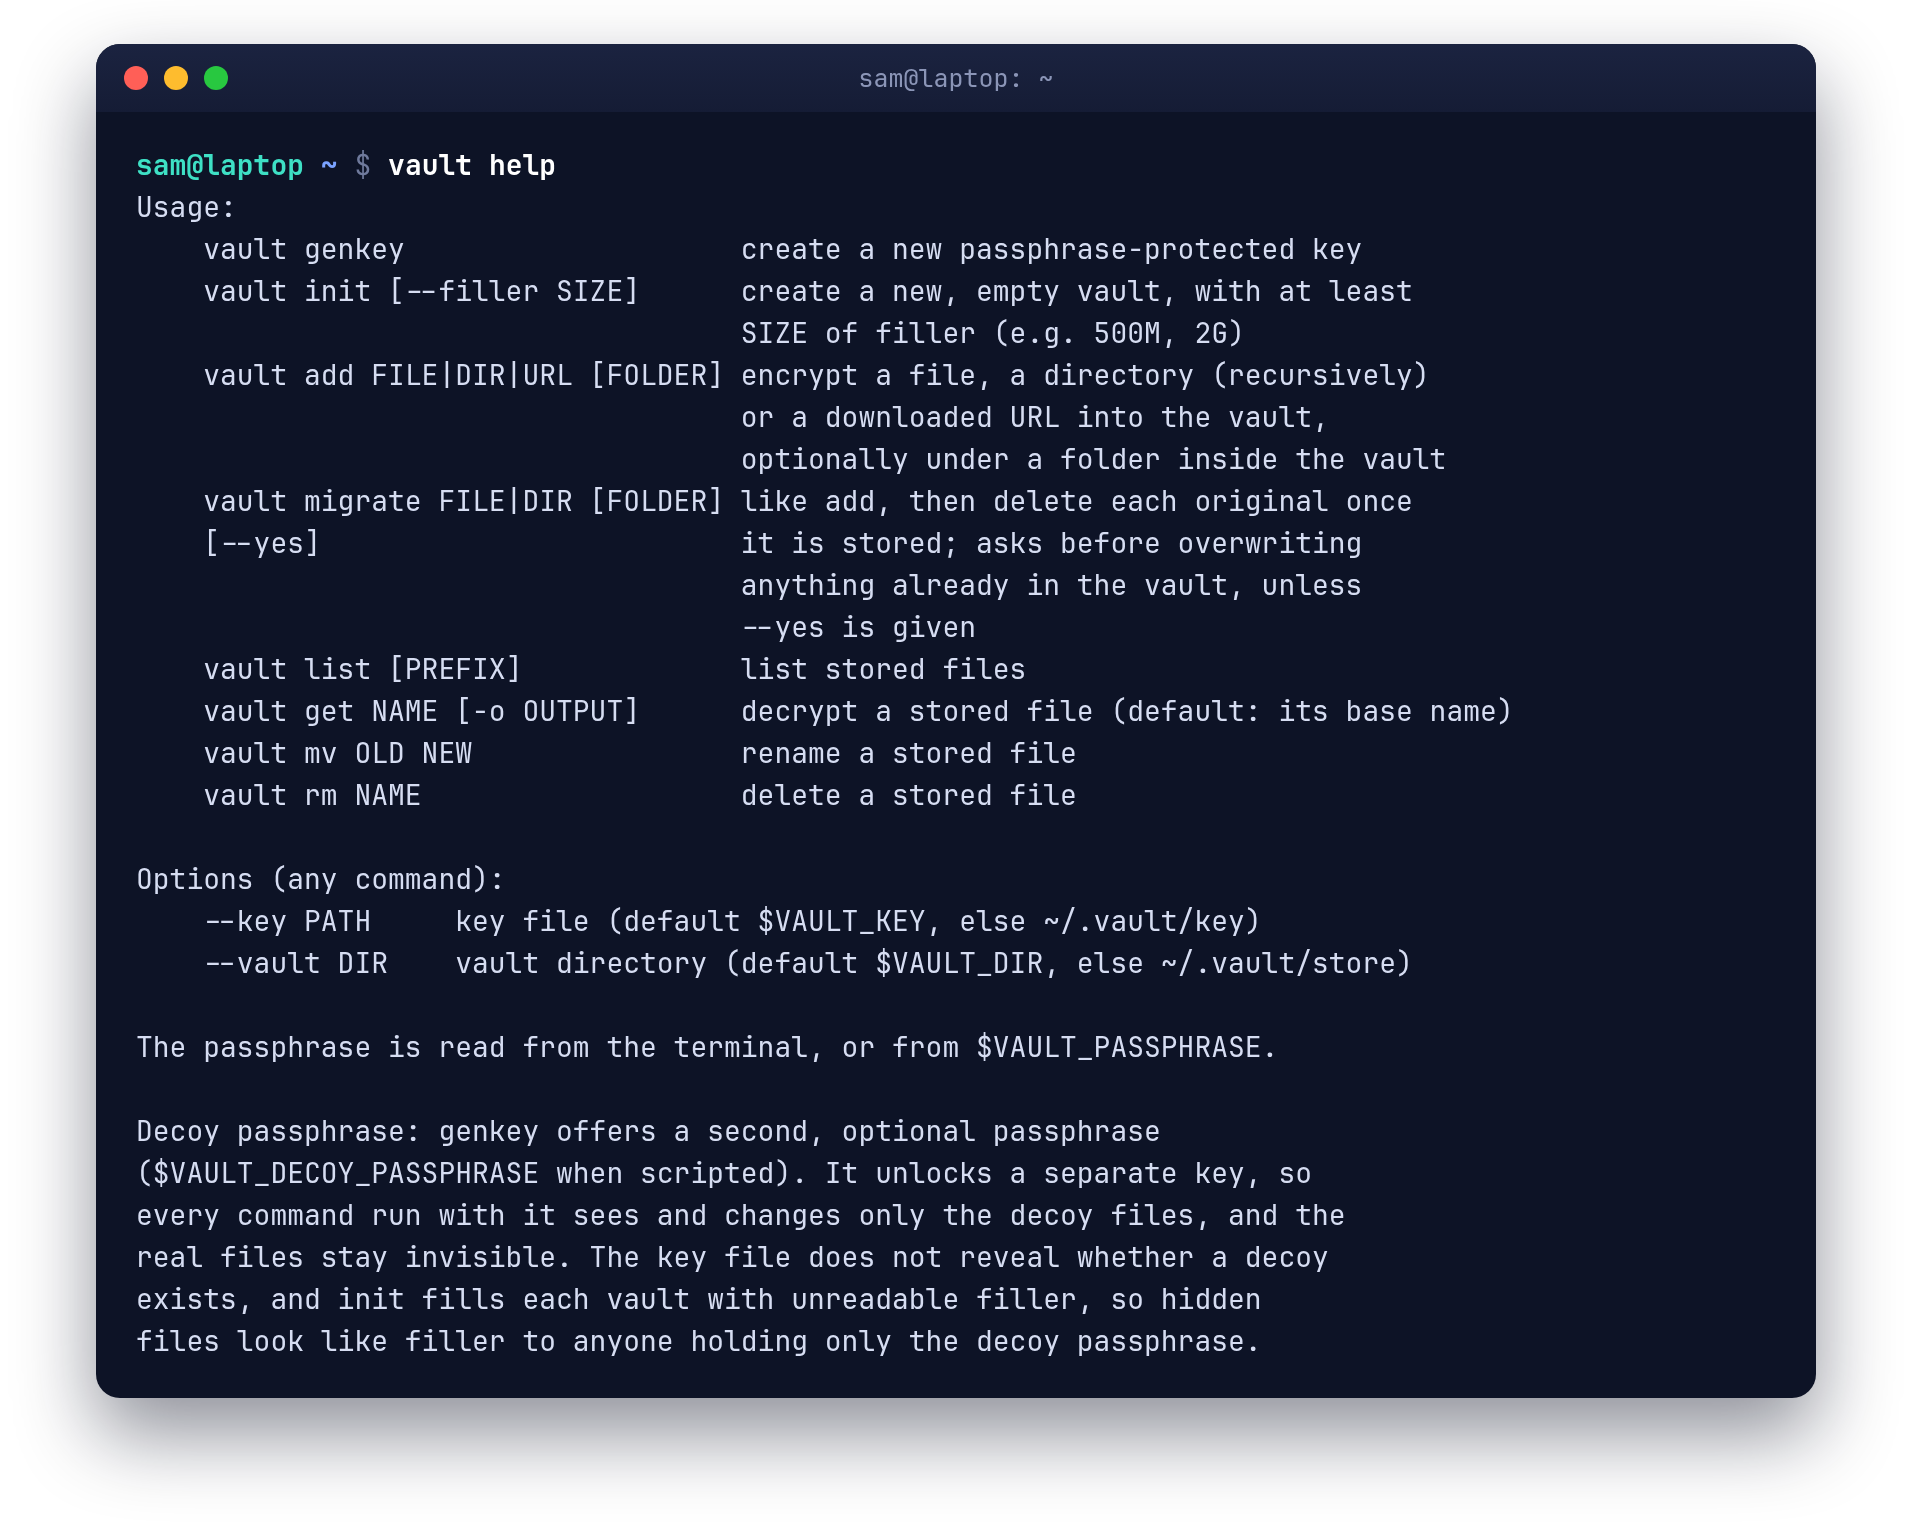
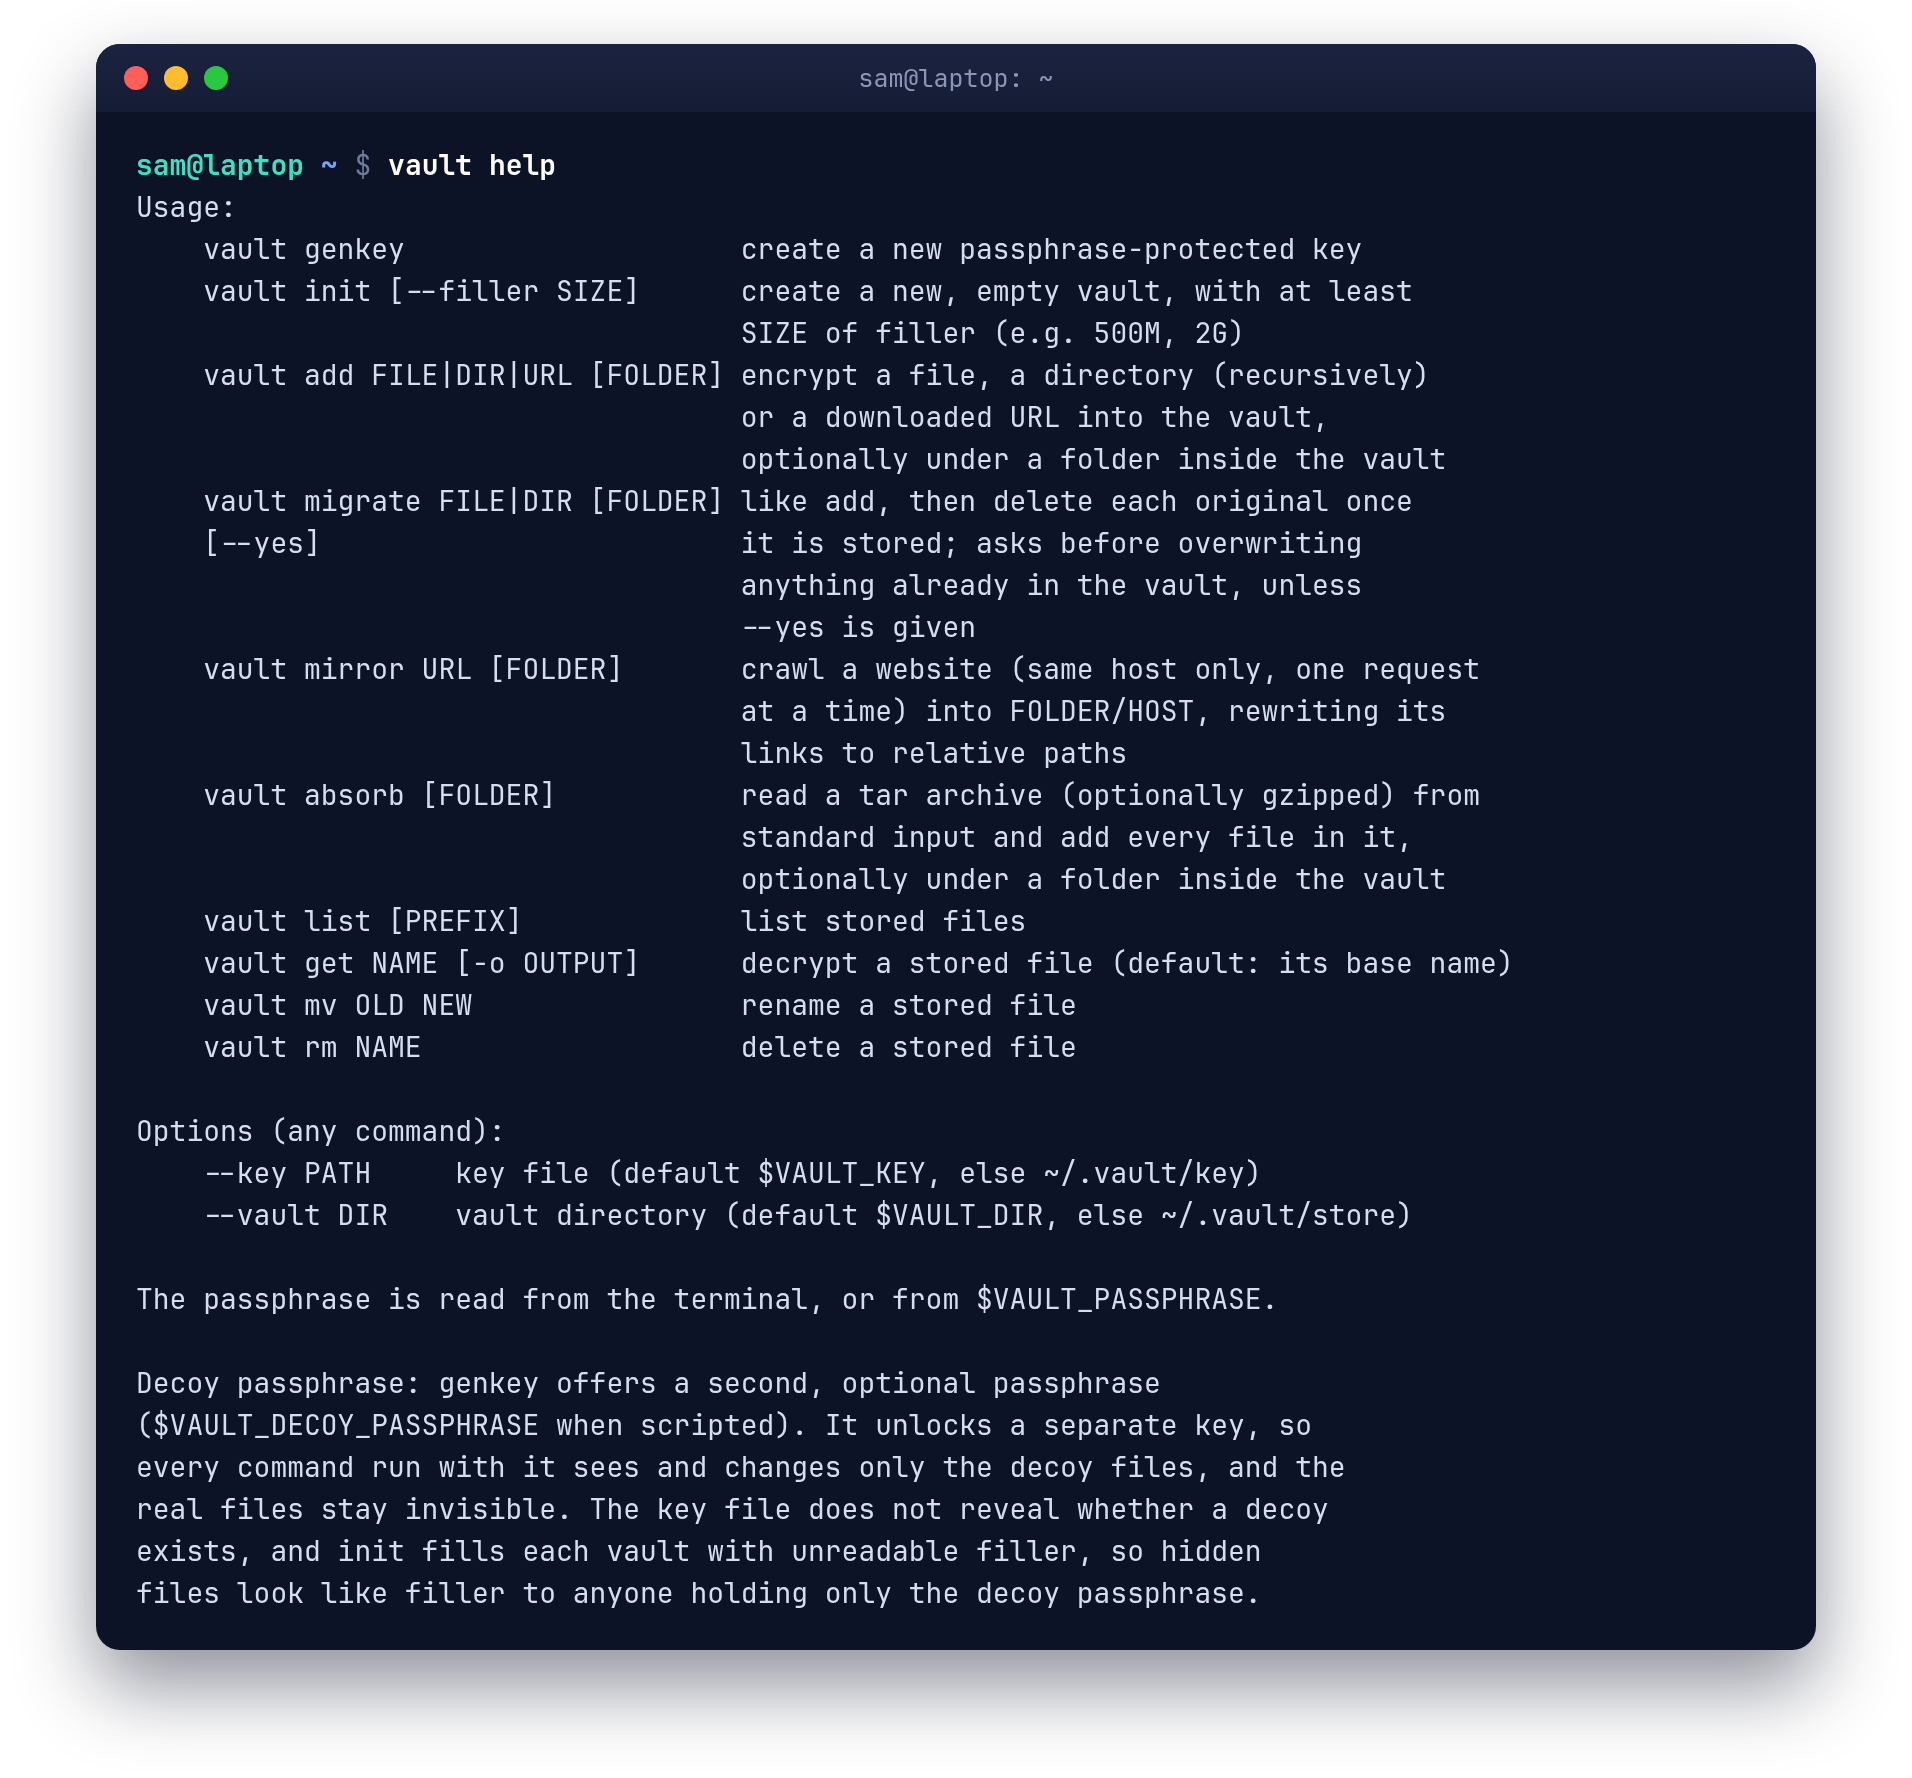
Absorb functionality

diff --git a/store.go b/store.go
@@ -14,6 +14,7 @@ import (
 	"errors"
 	"fmt"
 	"io"
+	"io/fs"
 	"math"
 	mrand "math/rand/v2"
 	"os"
@@ -382,30 +383,43 @@ func (s *store) add(cat map[string][]*record, src, name string) (bool, error) {
 	if !info.Mode().IsRegular() || info.Size() > fileLimit {
 		return false, fmt.Errorf("%s: not a regular file of at most 1 TiB", src)
 	}
+	replaced, err := s.addReader(cat, f, info.Size(), info.Mode().Perm(), info.ModTime(), name)
+	if errors.Is(err, io.ErrUnexpectedEOF) || errors.Is(err, io.EOF) {
+		err = fmt.Errorf("%s changed while being added", src)
+	}
+	return replaced, err
+}
+
+// addReader stores size bytes from r as name, like add. Reading fewer than
+// size bytes stores nothing and fails with io.ErrUnexpectedEOF or io.EOF.
+func (s *store) addReader(cat map[string][]*record, r io.Reader, size int64, mode fs.FileMode, mtime time.Time, name string) (bool, error) {
+	if !validName(name) {
+		return false, fmt.Errorf("invalid vault path %q", name)
+	}
+	if size < 0 || size > fileLimit {
+		return false, fmt.Errorf("%s: larger than 1 TiB", name)
+	}
 	seed, err := randomHex(objectSeedSize)
 	if err != nil {
 		return false, err
 	}
-	if err := s.writeObjects(f, seed, info.Size()); err != nil {
-		s.dropObjects(seed, info.Size())
-		if errors.Is(err, io.ErrUnexpectedEOF) || errors.Is(err, io.EOF) {
-			err = fmt.Errorf("%s changed while being added", src)
-		}
+	if err := s.writeObjects(r, seed, size); err != nil {
+		s.dropObjects(seed, size)
 		return false, err
 	}
-	r := &record{
-		Name: name, Seed: seed, Size: info.Size(), Mode: uint32(info.Mode().Perm()),
-		Modified: info.ModTime().UTC(), Added: time.Now().UTC(),
+	rec := &record{
+		Name: name, Seed: seed, Size: size, Mode: uint32(mode.Perm()),
+		Modified: mtime.UTC(), Added: time.Now().UTC(),
 	}
-	if err := s.writeRecord(r); err != nil {
-		s.dropObjects(seed, info.Size())
+	if err := s.writeRecord(rec); err != nil {
+		s.dropObjects(seed, size)
 		return false, err
 	}
 	replaced := len(cat[name]) > 0
 	if err := s.remove(cat, name, true); err != nil {
 		return replaced, err
 	}
-	cat[name] = []*record{r}
+	cat[name] = []*record{rec}
 	return replaced, nil
 }
 

diff --git a/absorb.go b/absorb.go
@@ -1,0 +1,75 @@
+// Copyright 2026 The vault Authors.
+// SPDX-License-Identifier: GPL-3.0-or-later
+
+package main
+
+import (
+	"archive/tar"
+	"bufio"
+	"bytes"
+	"compress/gzip"
+	"errors"
+	"fmt"
+	"io"
+	"os"
+	"path"
+	"strings"
+)
+
+// absorb reads a tar archive, gzipped or not, from r and adds every regular
+// file in it beneath dest, streaming each straight into the vault so no
+// plaintext touches the disk. Other entries, and names that would escape
+// dest, are reported and skipped.
+func absorb(s *store, cat map[string][]*record, r io.Reader, dest string) error {
+	br := bufio.NewReader(r)
+	if magic, _ := br.Peek(2); bytes.Equal(magic, []byte{0x1f, 0x8b}) {
+		zr, err := gzip.NewReader(br)
+		if err != nil {
+			return err
+		}
+		defer zr.Close()
+		r = zr
+	} else {
+		r = br
+	}
+	tr := tar.NewReader(r)
+	n := 0
+	for {
+		hdr, err := tr.Next()
+		if err == io.EOF {
+			break
+		}
+		if err != nil {
+			return fmt.Errorf("reading archive: %w", err)
+		}
+		if hdr.Typeflag != tar.TypeReg {
+			if hdr.Typeflag != tar.TypeDir {
+				fmt.Fprintf(os.Stderr, "skipping %s: not a regular file\n", hdr.Name)
+			}
+			continue
+		}
+		name := strings.TrimPrefix(path.Clean("/"+hdr.Name), "/")
+		if strings.Contains(hdr.Name, "\\") || name == "" || name != path.Clean(strings.TrimPrefix(strings.TrimPrefix(hdr.Name, "./"), "/")) {
+			fmt.Fprintf(os.Stderr, "skipping %s: unsafe name\n", hdr.Name)
+			continue
+		}
+		name = path.Join(dest, name)
+		replaced, err := s.addReader(cat, tr, hdr.Size, hdr.FileInfo().Mode(), hdr.ModTime, name)
+		if errors.Is(err, io.ErrUnexpectedEOF) || errors.Is(err, io.EOF) {
+			err = fmt.Errorf("%s: archive ends early", hdr.Name)
+		}
+		if err != nil {
+			return err
+		}
+		verb := "added"
+		if replaced {
+			verb = "replaced"
+		}
+		fmt.Fprintf(os.Stderr, "%s %s\n", verb, name)
+		n++
+	}
+	if n == 0 {
+		return errors.New("no files in archive")
+	}
+	return nil
+}

diff --git a/docs/guide/shots.py b/docs/guide/shots.py
@@ -315,6 +315,35 @@ def main():
     t.cmd("ls Scans")
     shoot("migrate", t)
 
+    # absorb: a tar archive piped in, here pulled from a gzipped tarball
+    box.write("Projects/website/index.html", "<h1>hello</h1>\n")
+    box.write("Projects/website/css/site.css", "body{}\n")
+    box.write("Projects/website/img/logo.png", os.urandom(24_311))
+    t = Term(box)
+    t.cmd("tar -czf website.tar.gz -C Projects website")
+    t.cmd("vault absorb backups < website.tar.gz", P)
+    t.cmd("tar -c recipes | vault absorb old", P)
+    t.cmd("vault list backups", P)
+    shoot("absorb", t)
+
+    # mirror: a tiny local site, served on localhost
+    site = os.path.join(box.root, "site")
+    for rel, body in {"index.html": '<a href="/about.html">About</a> <link href="/style.css">',
+                      "about.html": '<a href="/">Home</a> <img src="/img/me.png">',
+                      "style.css": "body{background:url(/img/bg.png)}",
+                      "img/me.png": "png", "img/bg.png": "png"}.items():
+        os.makedirs(os.path.dirname(os.path.join(site, rel)), exist_ok=True)
+        with open(os.path.join(site, rel), "w") as f:
+            f.write(body)
+    srv = subprocess.Popen([sys.executable, "-m", "http.server", "8000", "--bind", "127.0.0.1"],
+                           cwd=site, stdout=subprocess.DEVNULL, stderr=subprocess.DEVNULL)
+    time.sleep(1)
+    t = Term(box)
+    t.cmd("vault mirror http://localhost:8000/ sites", P)
+    t.cmd("vault get sites/localhost:8000/about.html && cat about.html", P)
+    shoot("mirror", t)
+    srv.terminate()
+
     # errors
     t = Term(box)
     t.cmd("vault list", "hunter2", highlight=("incorrect",))

diff --git a/vault_test.go b/vault_test.go
@@ -4,8 +4,10 @@
 package main
 
 import (
+	"archive/tar"
 	"bufio"
 	"bytes"
+	"compress/gzip"
 	"crypto/rand"
 	"io"
 	"io/fs"
@@ -428,5 +430,52 @@ func TestMirror(t *testing.T) {
 			t.Errorf("%s = %q, want %q", name, b, want)
 		}
 		os.Remove(out)
+	}
+}
+
+func TestAbsorb(t *testing.T) {
+	dir := t.TempDir()
+	keyPath := filepath.Join(dir, "key")
+	if err := writeKeyFile(keyPath, "pass", ""); err != nil {
+		t.Fatal(err)
+	}
+	if err := initStore(filepath.Join(dir, "store"), 0); err != nil {
+		t.Fatal(err)
+	}
+	s := newTestStore(t, keyPath, "pass")
+	var buf bytes.Buffer
+	zw := gzip.NewWriter(&buf)
+	tw := tar.NewWriter(zw)
+	mtime := time.Date(2020, 1, 2, 3, 4, 5, 0, time.UTC)
+	for _, h := range []*tar.Header{
+		{Name: "./d/", Typeflag: tar.TypeDir, Mode: 0o755},
+		{Name: "./d/a.txt", Size: 5, Mode: 0o600, ModTime: mtime},
+		{Name: "../escape", Size: 5, Mode: 0o600},
+		{Name: "./d/link", Typeflag: tar.TypeSymlink, Linkname: "a.txt"},
+	} {
+		tw.WriteHeader(h)
+		if h.Size > 0 {
+			io.WriteString(tw, "hello")
+		}
+	}
+	tw.Close()
+	zw.Close()
+
+	cat, _ := s.catalogue()
+	if err := absorb(s, cat, &buf, "in"); err != nil {
+		t.Fatal(err)
+	}
+	if len(cat) != 1 || len(cat["in/d/a.txt"]) != 1 {
+		t.Fatalf("catalogue = %v, want only in/d/a.txt", cat)
+	}
+	if r := cat["in/d/a.txt"][0]; !r.Modified.Equal(mtime) || r.Mode != 0o600 {
+		t.Errorf("record = %v, %o", r.Modified, r.Mode)
+	}
+	out := filepath.Join(dir, "out")
+	if err := s.get("in/d/a.txt", out); err != nil {
+		t.Fatal(err)
+	}
+	if b, _ := os.ReadFile(out); string(b) != "hello" {
+		t.Errorf("got %q", b)
 	}
 }

diff --git a/main.go b/main.go
@@ -35,6 +35,9 @@ const usage = `Usage:
     vault mirror URL [FOLDER]       crawl a website (same host only, one request
                                     at a time) into FOLDER/HOST, rewriting its
                                     links to relative paths
+    vault absorb [FOLDER]           read a tar archive (optionally gzipped) from
+                                    standard input and add every file in it,
+                                    optionally under a folder inside the vault
     vault list [PREFIX]             list stored files
     vault get NAME [-o OUTPUT]      decrypt a stored file (default: its base name)
     vault mv OLD NEW                rename a stored file
@@ -146,6 +149,19 @@ func main() {
 		cat, err := s.catalogue()
 		check(err)
 		check(mirror(s, cat, pos[0], dest))
+	case "absorb":
+		want(0, 1)
+		if fi, err := os.Stdin.Stat(); err == nil && fi.Mode()&os.ModeCharDevice != 0 {
+			fail("absorb reads a tar archive from standard input; pipe one in")
+		}
+		dest := ""
+		if len(pos) == 1 {
+			dest = strings.Trim(pos[0], "/")
+		}
+		s := open(*keyPath, *vaultDir, true)
+		cat, err := s.catalogue()
+		check(err)
+		check(absorb(s, cat, os.Stdin, dest))
 	case "list", "ls":
 		want(0, 1)
 		prefix := ""

diff --git a/docs/guide/vault-guide.tex b/docs/guide/vault-guide.tex
@@ -567,6 +567,22 @@ the whole site, one request at a time, into a folder named after its host.
 Links inside pages and stylesheets are rewritten to relative paths, so the
 copy still browses once you get it out. Only the same host is followed.
 
+\subsection{From a tar archive: \texttt{absorb}}
+\cmd{absorb} reads a tar archive, gzipped or not, from standard input and
+stores every plain file in it, optionally under a folder:
+
+\begin{verbatim}
+tar -cz photos | vault absorb backup
+ssh server 'tar -c /etc' | vault absorb server1
+vault absorb old < archive.tar.gz
+\end{verbatim}
+
+Each file is encrypted straight from the stream, so nothing is unpacked to
+disk first. Directories need no entry of their own; links, devices and any
+name that tries to climb out with \file{..} are skipped with a note. If the
+archive stops halfway through a file, that file isn't stored and vault
+stops; everything before it is already safely in.
+
 \subsection{Moving in: \texttt{migrate}}
 \cmd{migrate} works exactly like \cmd{add}, but deletes each original once
 it's safely stored, then tidies away any folders left empty. It won't take a

diff --git a/CLAUDE.md b/CLAUDE.md
@@ -8,7 +8,8 @@ vault is a post-quantum encrypted file vault: one `package main` at the repo
 root that builds a single `vault` binary. Module `github.com/andydixon/vault`.
 
 - `main.go` - CLI: `genkey`, `init`, `add` (file, directory
-  or URL), `migrate` (add, then delete originals), `list`, `get`, `mv`, `rm`.
+  or URL), `migrate` (add, then delete originals), `mirror`, `absorb` (tar
+  on stdin, `absorb.go`), `list`, `get`, `mv`, `rm`.
 - `keyfile.go` - key file with two passphrase slots (Argon2id +
   XChaCha20-Poly1305 sealing a suite ID and 32-byte master seed). The second
   slot is either a decoy identity or random bytes; slot order is random.

diff --git a/README.md b/README.md
@@ -48,6 +48,7 @@ vault add ./photos               # every regular file under photos/
 vault add https://example.com/a.pdf   # download and store a URL
 vault migrate ./photos           # like add, then delete the originals
 vault mirror https://example.com/     # crawl a site into example.com/, links rewritten
+tar -cz photos | vault absorb backup  # every file in a tar (or .tar.gz) under backup/
 vault list                       # everything
 vault list work                  # everything under work/
 vault get work/2026/report.pdf   # writes ./report.pdf
